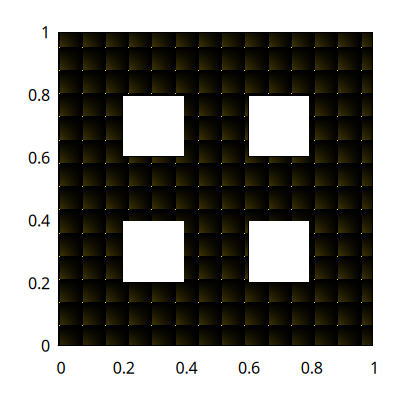
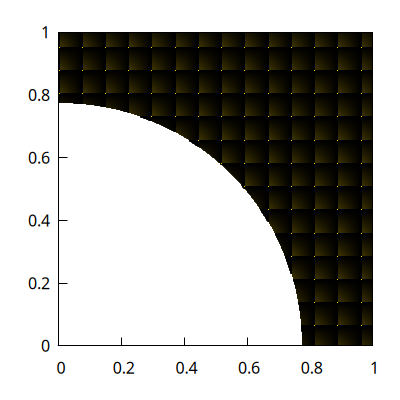
small updates

Changed region(s): [[0.15, 0.24, 0.78, 0.87], [0.6, 0.24, 0.78, 0.39]]

diff --git a/cfdARCO/src/main.cpp b/cfdARCO/src/main.cpp
@@ -65,6 +65,25 @@ Eigen::VectorXd boundary_copy_only_edge(Mesh2D* mesh, Eigen::VectorXd& arr, Eige
     return ret;
 }
 
+Eigen::VectorXd boundary_with_neumann_pressure(Mesh2D* mesh, Eigen::VectorXd& arr, Eigen::VectorXd& copy_var) {
+    auto redist = CFDArcoGlobalInit::get_redistributed(arr, "boundary_with_neumann");
+    auto ret = Eigen::VectorXd{mesh->_num_nodes};
+    int i = 0;
+    for (auto& node : mesh->_nodes) {
+        if (node->is_boundary()) {
+            if (.1 > node->y()) {
+                ret(i) = 1;
+            } else {
+//                auto where_bound
+            }
+        } else {
+            ret(i) = arr(i);
+        }
+        ++i;
+    }
+    return ret;
+}
+
 int main(int argc, char **argv) {
     argparse::ArgumentParser program("cfdARCO");
     program.add_argument("-v", "--visualize").default_value(false).implicit_value(true);
@@ -146,51 +165,51 @@ int main(int argc, char **argv) {
     auto rho_initial = initial_val(mesh.get(), 1, 2);
     auto rho = Variable(mesh.get(),
                           rho_initial,
-                          [& rho_initial] (Mesh2D* mesh, Eigen::VectorXd& arr) { return boundary_copy_only_edge(mesh, arr, rho_initial); },
+                          [& rho_initial] (Mesh2D* mesh, Eigen::VectorXd& arr) { return boundary_copy(mesh, arr, rho_initial); },
                           "rho");
 
     auto u_initial = initial_val(mesh.get(), -0.5, 0.5);
     auto u = Variable(mesh.get(),
                           u_initial,
-                          [& u_initial] (Mesh2D* mesh, Eigen::VectorXd& arr) { return boundary_copy_only_edge(mesh, arr, u_initial); },
+                          [& u_initial] (Mesh2D* mesh, Eigen::VectorXd& arr) { return boundary_copy(mesh, arr, u_initial); },
                           "u");
 
-    auto v_initial = initial_val(mesh.get(), -0.5, -0.3);
+    auto v_initial = initial_pertrubations(mesh.get(), -0.5, -0.3);
     auto v = Variable(mesh.get(),
                         v_initial,
-                        [& v_initial] (Mesh2D* mesh, Eigen::VectorXd& arr) { return boundary_copy_only_edge(mesh, arr, v_initial); },
+                        [& v_initial] (Mesh2D* mesh, Eigen::VectorXd& arr) { return boundary_copy(mesh, arr, v_initial); },
                         "v");
 
     Eigen::VectorXd p_initial = Eigen::VectorXd{mesh->_num_nodes};
     p_initial.setConstant(2.5);
     auto p = Variable(mesh.get(),
                         p_initial,
-                        [& p_initial] (Mesh2D* mesh, Eigen::VectorXd& arr) { return boundary_copy_only_edge(mesh, arr, p_initial); },
+                        [& p_initial] (Mesh2D* mesh, Eigen::VectorXd& arr) { return boundary_copy(mesh, arr, p_initial); },
                         "p");
 
     Eigen::VectorXd mass_initial = rho.current.array() * mesh->_volumes.array();
     auto mass = Variable(mesh.get(),
                            mass_initial,
-                           [& mass_initial] (Mesh2D* mesh, Eigen::VectorXd& arr) { return boundary_copy_only_edge(mesh, arr, mass_initial); },
+                           [& mass_initial] (Mesh2D* mesh, Eigen::VectorXd& arr) { return boundary_copy(mesh, arr, mass_initial); },
                            "mass");
 
     Eigen::VectorXd rho_u_initial = rho.current.array() * u.current.array() * mesh->_volumes.array();
     auto rho_u = Variable(mesh.get(),
                             rho_u_initial,
-                           [& rho_u_initial] (Mesh2D* mesh, Eigen::VectorXd& arr) { return boundary_copy_only_edge(mesh, arr, rho_u_initial); },
+                           [& rho_u_initial] (Mesh2D* mesh, Eigen::VectorXd& arr) { return boundary_copy(mesh, arr, rho_u_initial); },
                            "rho_u");
 
     Eigen::VectorXd rho_v_initial = rho.current.array() * v.current.array() * mesh->_volumes.array();
     auto rho_v = Variable(mesh.get(),
                             rho_v_initial,
-                            [& rho_v_initial] (Mesh2D* mesh, Eigen::VectorXd& arr) { return boundary_copy_only_edge(mesh, arr, rho_v_initial); },
+                            [& rho_v_initial] (Mesh2D* mesh, Eigen::VectorXd& arr) { return boundary_copy(mesh, arr, rho_v_initial); },
                             "rho_v");
 
     auto E = p / (gamma - 1) + 0.5 * rho * ((u * u) + (v * v));
     Eigen::VectorXd E_initial = (p.current.array() / (gamma - 1) + 0.5 * rho.current.array() * (u.current.array() * u.current.array() + v.current.array() * v.current.array())) * mesh->_volumes.array();
     auto rho_e = Variable(mesh.get(),
                           E_initial,
-                          [& E_initial] (Mesh2D* mesh, Eigen::VectorXd& arr) { return boundary_copy_only_edge(mesh, arr, E_initial); },
+                          [& E_initial] (Mesh2D* mesh, Eigen::VectorXd& arr) { return boundary_copy(mesh, arr, E_initial); },
                           "rho_e");
 
     std::vector<Variable*> space_vars {&u, &v, &p, &rho};

diff --git a/cfdARCO/src/mesh2d.cpp b/cfdARCO/src/mesh2d.cpp
@@ -382,62 +382,79 @@ void Mesh2D::delete_node(int id) {
 }
 
 void Mesh2D::make_strange_internals() {
-    int st_x = 0.2 * static_cast<double>(_x);
-    int en_x = 0.4 * static_cast<double>(_x);
-    int st_y = 0.2 * static_cast<double>(_y);
-    int en_y = 0.4 * static_cast<double>(_y);
+//    int st_x = 0.2 * static_cast<double>(_x);
+//    int en_x = 0.4 * static_cast<double>(_x);
+//    int st_y = 0.2 * static_cast<double>(_y);
+//    int en_y = 0.4 * static_cast<double>(_y);
+//
+//    std::vector<size_t> to_remove{};
+//    for (int x_ = 0; x_ < _x; ++x_) {
+//        for (int y_ = 0; y_ < _y; ++y_) {
+//            if (x_ > st_x && x_ < en_x && y_ > st_y && y_ < en_y) {
+//                auto i = coord_fo_idx(x_, y_);
+//                to_remove.push_back(i);
+//            }
+//        }
+//    }
+//
+//    st_x = 0.2 * static_cast<double>(_x);
+//    en_x = 0.4 * static_cast<double>(_x);
+//    st_y = 0.6 * static_cast<double>(_y);
+//    en_y = 0.8 * static_cast<double>(_y);
+//
+//    for (int x_ = 0; x_ < _x; ++x_) {
+//        for (int y_ = 0; y_ < _y; ++y_) {
+//            if (x_ > st_x && x_ < en_x && y_ > st_y && y_ < en_y) {
+//                auto i = coord_fo_idx(x_, y_);
+//                to_remove.push_back(i);
+//            }
+//        }
+//    }
+//
+//    st_x = 0.6 * static_cast<double>(_x);
+//    en_x = 0.8 * static_cast<double>(_x);
+//    st_y = 0.6 * static_cast<double>(_y);
+//    en_y = 0.8 * static_cast<double>(_y);
+//
+//    for (int x_ = 0; x_ < _x; ++x_) {
+//        for (int y_ = 0; y_ < _y; ++y_) {
+//            if (x_ > st_x && x_ < en_x && y_ > st_y && y_ < en_y) {
+//                auto i = coord_fo_idx(x_, y_);
+//                to_remove.push_back(i);
+//            }
+//        }
+//    }
+//
+//    st_x = 0.6 * static_cast<double>(_x);
+//    en_x = 0.8 * static_cast<double>(_x);
+//    st_y = 0.2 * static_cast<double>(_y);
+//    en_y = 0.4 * static_cast<double>(_y);
+//
+//    for (int x_ = 0; x_ < _x; ++x_) {
+//        for (int y_ = 0; y_ < _y; ++y_) {
+//            if (x_ > st_x && x_ < en_x && y_ > st_y && y_ < en_y) {
+//                auto i = coord_fo_idx(x_, y_);
+//                to_remove.push_back(i);
+//            }
+//        }
+//    }
 
+
+//  make circle
     std::vector<size_t> to_remove{};
     for (int x_ = 0; x_ < _x; ++x_) {
         for (int y_ = 0; y_ < _y; ++y_) {
-            if (x_ > st_x && x_ < en_x && y_ > st_y && y_ < en_y) {
-                auto i = coord_fo_idx(x_, y_);
+            auto i = coord_fo_idx(x_, y_);
+            auto x_rl = static_cast<double>(x_) / static_cast<double>(_x);
+            auto y_rl = static_cast<double>(y_) / static_cast<double>(_y);
+
+            auto origin_dist = x_rl * x_rl + y_rl * y_rl;
+            if (origin_dist <= 0.6) {
                 to_remove.push_back(i);
             }
         }
     }
 
-    st_x = 0.2 * static_cast<double>(_x);
-    en_x = 0.4 * static_cast<double>(_x);
-    st_y = 0.6 * static_cast<double>(_y);
-    en_y = 0.8 * static_cast<double>(_y);
-
-    for (int x_ = 0; x_ < _x; ++x_) {
-        for (int y_ = 0; y_ < _y; ++y_) {
-            if (x_ > st_x && x_ < en_x && y_ > st_y && y_ < en_y) {
-                auto i = coord_fo_idx(x_, y_);
-                to_remove.push_back(i);
-            }
-        }
-    }
-
-    st_x = 0.6 * static_cast<double>(_x);
-    en_x = 0.8 * static_cast<double>(_x);
-    st_y = 0.6 * static_cast<double>(_y);
-    en_y = 0.8 * static_cast<double>(_y);
-
-    for (int x_ = 0; x_ < _x; ++x_) {
-        for (int y_ = 0; y_ < _y; ++y_) {
-            if (x_ > st_x && x_ < en_x && y_ > st_y && y_ < en_y) {
-                auto i = coord_fo_idx(x_, y_);
-                to_remove.push_back(i);
-            }
-        }
-    }
-
-    st_x = 0.6 * static_cast<double>(_x);
-    en_x = 0.8 * static_cast<double>(_x);
-    st_y = 0.2 * static_cast<double>(_y);
-    en_y = 0.4 * static_cast<double>(_y);
-
-    for (int x_ = 0; x_ < _x; ++x_) {
-        for (int y_ = 0; y_ < _y; ++y_) {
-            if (x_ > st_x && x_ < en_x && y_ > st_y && y_ < en_y) {
-                auto i = coord_fo_idx(x_, y_);
-                to_remove.push_back(i);
-            }
-        }
-    }
 
     std::sort(to_remove.begin(), to_remove.end(), std::greater<>());
 

diff --git a/cfdARCO/scripts/test_parallel_onnodes_execution.py b/cfdARCO/scripts/test_parallel_onnodes_execution.py
@@ -19,13 +19,18 @@ def run_one_run(num_proc: int, mesh_size: int, available_nodes, procs_per_node):
         if i >= len(available_nodes):
             i = 0
 
-    command = ["mpirun", "--oversubscribe", "--host", ",".join(nodes_to_run), bin_file, "-L", str(mesh_size), "-v", "--skip_history", "-d", "ln"]
-    result = subprocess.run(command, capture_output=True, text=True)
-    outs = result.stdout
+    time_microsecondss = []
+    for q in range(3):
+        command = ["mpirun", "--oversubscribe", "--host", ",".join(nodes_to_run), bin_file, "-L", str(mesh_size), "-v", "--skip_history", "-d", "ln"]
+        result = subprocess.run(command, capture_output=True, text=True)
+        outs = result.stdout
 
-    time_str = outs.split("\n")[-2].split(" ")[-1].split("[")[0]
-    time_microseconds = int(time_str)
+        time_str = outs.split("\n")[-2].split(" ")[-1].split("[")[0]
+        time_microseconds = int(time_str)
+        time_microsecondss.append(time_microseconds)
+        print(f"Iter {q} time = {time_microseconds}")
 
+    time_microseconds = min(time_microsecondss)
     print(f"Res(num_proc={num_proc}, mesh_size={mesh_size}) = {time_microseconds}")
 
     return time_microseconds

diff --git a/cfdARCO/src/fvm.cpp b/cfdARCO/src/fvm.cpp
@@ -831,6 +831,8 @@ void Equation::evaluate(std::vector<Variable*> &all_vars,
 
         if (CFDArcoGlobalInit::store_stepping) store_history_stepping(store_vars, store_vars.at(0)->mesh, t);
     }
+
+    std::cout << "Time progress = " << t_val << std::endl;
 }
 
 MatrixX4dRB to_grid(const Mesh2D* mesh, Eigen::VectorXd& values_half) {

diff --git a/cfdARCO/scripts/visualize_mesh.py b/cfdARCO/scripts/visualize_mesh.py
@@ -52,7 +52,7 @@ def plot_mesh(mesh_nodes, values):
 
 
 if __name__ == '__main__':
-    with open("/home/yevhen/Documents/cfdARCO/cfdARCO/dumps/strange_mesh2.json") as filee:
+    with open("/home/yevhen/Documents/cfdARCO/cfdARCO/dumps/strange_mesh3.json") as filee:
         mesh_json = json.load(filee)
 
     mesh = []
